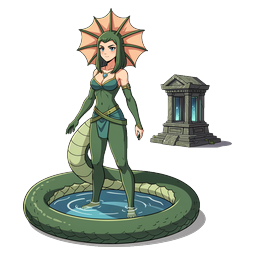
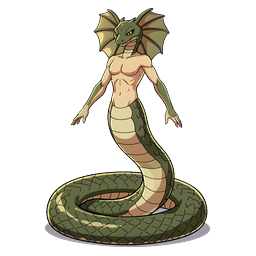
Mythic rerolls and three more memorial species, 799 total
Seven of the eight mythic sprites flagged in c1a1412 are fixed. The
common thread was that the description already said the right thing and
the model ignored it, so each was rewritten to state emphatically what
must NOT be there rather than only what should:

  sphinx         had a lion's head, now a human face under a pharaonic
                 headdress - "human skin, no fur, no mane, no muzzle"
  harpy          had an eagle's head, now a woman's head and torso
  hippocampus    was a whole horse, now horse in front and fish tail
                 behind with no hind legs at all
  questingbeast  had a cat's head, now a serpent head on a long neck
  naga           had a temple and a pool beside it, now just the naga
  leshy          had an entire forest behind it, now the figure alone
  ratatoskr      was dwarfed by its tree, now the squirrel alone

sleipnir is still wrong and is committed that way. It has four legs, and
Sleipnir's entire point is eight. The description now spells out two
extra pairs and all eight hooves on the ground and the model still draws
a horse - counting is where diffusion gives up, the same failure that
made the hydra's heads and the cerberus' heads worth checking. It needs
a different approach rather than another reroll.

Also carries the three memorial species that failed when the host went
away mid-batch - carolinaparakeet, heathhen and southchinatiger - and
the improved but still imperfect agouti and flyingsquirrel: the agouti
[…]

diff --git a/game.part2.jsx b/game.part2.jsx
@@ -460,6 +460,7 @@ const PHOTO_ART = {
   "caracal": true,
   "caracara": true,
   "caribbeanmonkseal": true,
+  "carolinaparakeet": true,
   "caspiantiger": true,
   "cassowary": true,
   "cavelion": true,
@@ -640,6 +641,7 @@ const PHOTO_ART = {
   "grootslang": true,
   "groundhog": true,
   "grouper": true,
+  "guamkingfisher": true,
   "guanaco": true,
   "haastseagle": true,
   "haetae": true,
@@ -655,6 +657,7 @@ const PHOTO_ART = {
   "hartebeest": true,
   "hawkmoth": true,
   "hawksbill": true,
+  "heathhen": true,
   "hectorsdolphin": true,
   "hedgehog": true,
   "hedgehog_j": true,
@@ -1011,6 +1014,7 @@ const PHOTO_ART = {
   "snowleopard_j": true,
   "snowyowl": true,
   "snubnosed": true,
+  "southchinatiger": true,
   "spectacledbear": true,
   "spectacledbear_c": true,
   "spectacledflyingfox": true,
